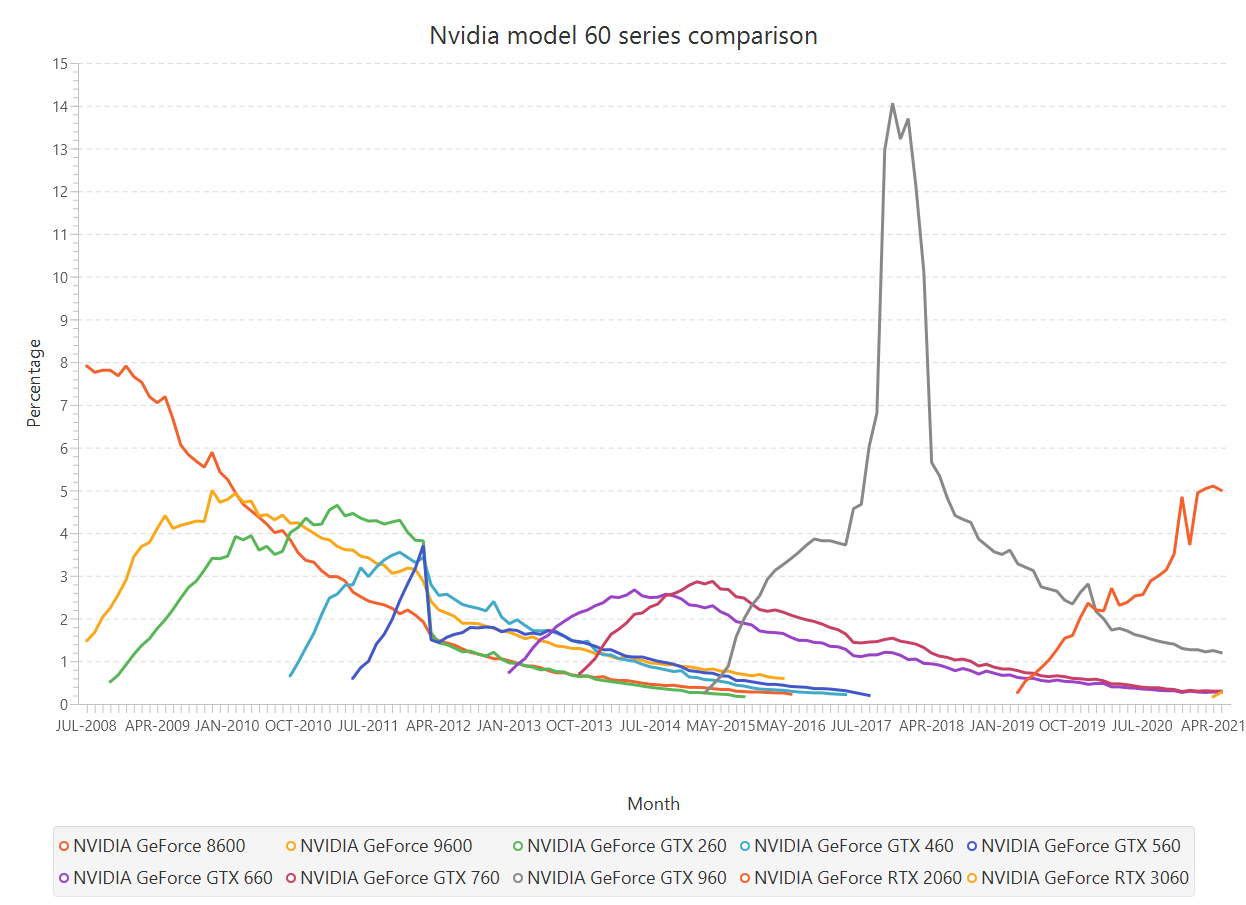
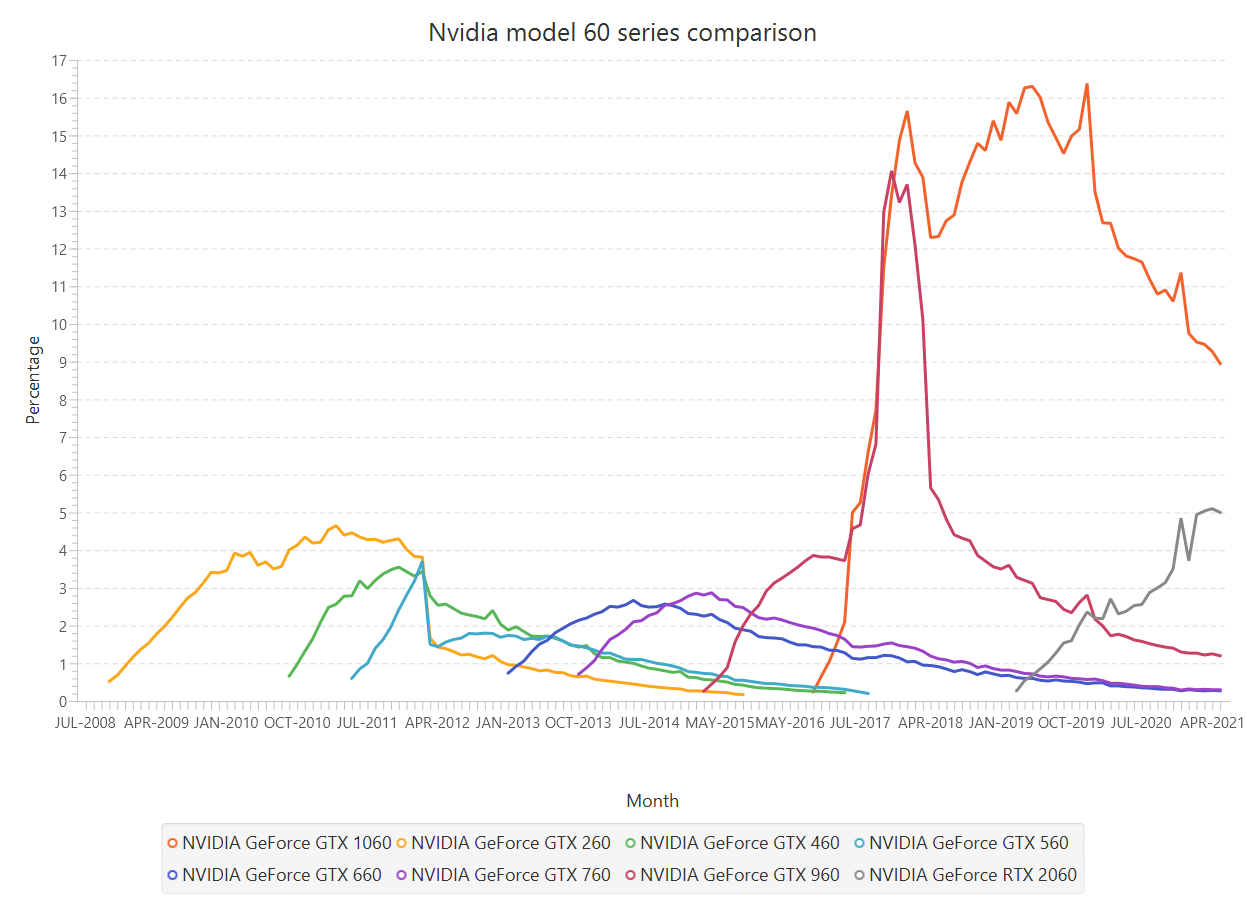
Refact

diff --git a/src/main/java/charts/LineChartApp.java b/src/main/java/charts/LineChartApp.java
@@ -55,37 +55,43 @@ public class LineChartApp extends Application {
 
         final Set<String> series60 = new HashSet<>(Arrays.asList("Nvidia GeForce 8600", "Nvidia GeForce 9600", "Nvidia GeForce GTX 260",
                 "Nvidia GeForce GTX 460", "Nvidia GeForce GTX 560", "Nvidia GeForce GTX 660", "Nvidia GeForce GTX 760", "Nvidia GeForce GTX 960",
-                "Nvidia GeForce RTX 2060", "Nvidia GeForce RTX 3060")); // strict = true
+                "Nvidia GeForce GTX 1060", "Nvidia GeForce RTX 2060")); // strict = true
 
         final Set<String> series70 = new HashSet<>(Arrays.asList("Nvidia GeForce 8700", "Nvidia GeForce 9700", "Nvidia GeForce GTX 270",
                 "Nvidia GeForce GTX 470", "Nvidia GeForce GTX 570", "Nvidia GeForce GTX 670", "Nvidia GeForce GTX 770", "Nvidia GeForce GTX 970",
-                "Nvidia GeForce RTX 2070", "Nvidia GeForce RTX 3070")); // strict = true
+                "Nvidia GeForce GTX 1070", "Nvidia GeForce RTX 2070", "Nvidia GeForce RTX 3070")); // strict = true; SEP-2010
 
         final Set<String> series80 = new HashSet<>(Arrays.asList("Nvidia GeForce 8800", "Nvidia GeForce 9800", "Nvidia GeForce GTX 280",
                 "Nvidia GeForce GTX 480", "Nvidia GeForce GTX 580", "Nvidia GeForce GTX 680", "Nvidia GeForce GTX 780", "Nvidia GeForce GTX 980",
-                "Nvidia GeForce RTX 2080", "Nvidia GeForce RTX 3080")); // strict = true
-        createGpuSeries(categories, seriesList, startIndex, endIndex, series80, true, false, false, false);
+                "Nvidia GeForce GTX 1080", "Nvidia GeForce RTX 2080")); // strict = true
+
+        final String chartName = "Nvidia model 70 series comparison";
+        createGpuSeries(categories, seriesList, startIndex, endIndex, series70, true, true, false, false);
         // ------------------------------------------------------------------------------------------------------
 
         // --------------------------------  GPU popularity chart for mobile GPUS -------------------------------
+//        final String chartName = "Nvidia mobile GPUs popularity";
 //        final Set<String> gpuList = getTopXGpus(csvData, 8, PopularitySort.SUM, false, startIndex, endIndex,
 //                true, false, false);
 //        createGpuSeries(categories, seriesList, startIndex, endIndex, gpuList, false, false, true, null);
         // ------------------------------------------------------------------------------------------------------
 
         // --------------------------------  GPU popularity chart for Ti GPUS ---------------------------------
+//        final String chartName = "Nvidia Ti-series GPUs popularity";
 //        final Set<String> gpuList = getTopXGpus(csvData, 8, PopularitySort.SUM, false, startIndex, endIndex,
 //                false, true, false);
 //        createGpuSeries(categories, seriesList, startIndex, endIndex, gpuList, false, false, null, null);
         // ------------------------------------------------------------------------------------------------------
 
         // -----------------------  GPU popularity chart for most popular GPUS ----------------------------------
+//        final String chartName = "Nvidia's most popular GPUs ever'";
 //        final Set<String> gpuList = getTopXGpus(csvData, 8, PopularitySort.SUM, false, startIndex, endIndex,
 //                false, false, false);
 //        createGpuSeries(categories, seriesList, startIndex, endIndex, gpuList, false, false, null, null);
         // ------------------------------------------------------------------------------------------------------
 
         // --------------------------------------  Brand popularity chart  --------------------------------------
+//        final String chartName = "Brand popularity chart";
 //        isBrandPopularityChart = true;
 //        final Double[][] brandPopularity = getBrandPopularity(csvData, startIndex, endIndex);
 //        createBrandSeries(categories, seriesList, startIndex, endIndex, brandPopularity);
@@ -99,7 +105,7 @@ public class LineChartApp extends Application {
         yAxis.setLabel("Percentage");
 
         final LineChart<String, Number> lineChart = new LineChart<>(xAxis, yAxis);
-        lineChart.setTitle("GPU Popularity");
+        lineChart.setTitle(chartName);
         lineChart.verticalGridLinesVisibleProperty().setValue(Boolean.FALSE);
         lineChart.getData().addAll(seriesList);
 
@@ -114,7 +120,7 @@ public class LineChartApp extends Application {
         addTooltips(lineChart, false);
 
         // hide data points
-        hideDataPoints(lineChart, false);
+        hideDataPoints(lineChart, true);
     }
 
     private void createGpuSeries(final Set<String> categories, final List<XYChart.Series<String, Number>> seriesList,
